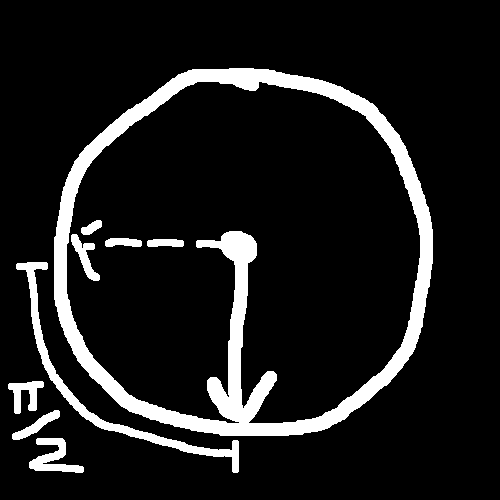
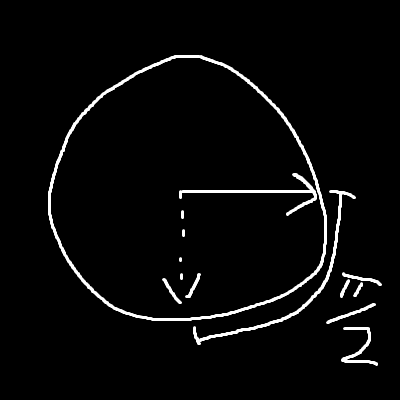
rework ball respawn velocity calculation

diff --git a/content/pong/scoring/ball_respawn.md b/content/pong/scoring/ball_respawn.md
@@ -134,16 +134,15 @@ export function angleTo(x: number, y: number, u: number, v: number): number;
 
 Now we can use all these useful vector math functions in our game.
 
-
 Let's break down some of the math here.
 
 We want the ball to fire in a random direction, but we don't want its trajectory to be too vertical, or it will take forever to get to one of the paddles, which is boring. We also want it to travel at the same speed regardless of its direction.
 
-Let's start with a vector with an _x_ component of 0 and a _y_ component of our desired speed. You can think of this as an arrow pointing straight downward. Now imagine that arrow as the hand of a clock. How can we describe the angle of the clock hand? As the hand rotates around it differs from its original orientation in an amount of units called _radians_. When that angle changes by 2 times pi, it ends up in the same position. So a rotation a quarter of the way around the clock would be pi divided by 2.
+Let's start with a vector with an _x_ component of our desired speed and a _y_ component of 0. You can think of this as an arrow pointing directly to the right. Now imagine that arrow as the hand of a clock. How can we describe the angle of the clock hand? As the hand rotates around it differs from its original orientation in an amount of units called _radians_. When that angle changes by 2 times pi, it ends up in the same position. So a rotation a quarter of the way around the clock would be pi divided by 2.
 
 ![pi over 2](/images/pi-over-2.png)
 
-You can see that if we rotate our downward vector by pi/2 radians, it will face towards the left paddle. Now, what we want is for the ball to be served at angles like this:
+You can see that if we rotate our direction vector by pi/2 radians, it will face straight down. Now, what we want is for the ball to be served at angles like this:
 
 ![serve area](/images/serve-area.png)
 
@@ -151,15 +150,13 @@ The non-shaded area represents the angles that we want the ball to be served at.
 
 Well, a lot of what we do in game math is guesstimation. "Close enough" can be a powerful phrase! We can always easily tweak the exact values later if we architect our game properly.
 
-![serve area angles](/images/serve-area-angles.png)
+![serve area angles](/images/serve-area-angle.png)
 
-If we draw it out, we know that a quarter-circle rotation is pi/2 radians. The start of our serve range seems to be roughly half that. So that would be pi/4 radians. Sounds reasonable as a starting angle to me. What about the ending angle?
+If we draw it out, we know that a quarter-circle rotation is pi/2 radians. The angle of our serve range seems to be roughly half that. So our rotation would be pi/4 radians. Sounds reasonable as a starting angle to me. How do we actually represent this range?
 
-![three quarters circle](/images/three-quarters.png)
+What if the rotation is _negative_? Well, our positive rotations have been going clockwise - so negative rotations go counter-clockwise! That means our possible serve angle is somewhere between -pi/4 and pi/4.
 
-When we draw it out, we see that it is 3 eighth-circle rotations. So we get 3 * pi/4.
-
-So now we need to pick a random rotation within this range. How should we do that? TypeScript and Lua don't have anything built-in for this. I usually write a helper for this, since it's so common to want a random real number in a certain range.
+So now we need to actually pick a random rotation within this range. How should we do that? TypeScript and Lua don't have anything built-in for this. I usually write a helper for this, since it's so common to want a random real number in a certain range.
 
 Let's create **game/helpers/math.ts**:
 
@@ -170,20 +167,39 @@ export class MathHelper {
     }
 }
 ```
-_love.math.random()_ returns a random real number between 0 and 1. So our _randomFloat_ function will return a random real number between _low_ and _high_.
 
-One last note about rotations. What if the rotation is _negative_? Well, our positive rotations have been going clockwise - so negative rotations go counter-clockwise!
+_love.math.random()_ returns a random real number between 0 and 1. So our _randomFloat_ function will return a random real number between _low_ and _high_.
 
 Now we can construct a formula for our random serve direction.
 
 ```ts
-const direction = MathHelper.randomFloat(math.pi / 4, math.pi * 3 / 4) *
-                    (love.math.random() > 0.5 ? 1 : -1);
+const direction = MathHelper.randomFloat(-math.pi / 4, math.pi / 4);
 ```
 
-What's that last bit on the second line? Remember, _love.math.random()_ returns a random number between 0 and 1. It has a 50% chance of being greater than 0.5. So that last expression means, there's a 50% chance of that value being equal to 1, and a 50% chance of it being equal to -1. If we multiply the rotation by negative 1, we are reversing its direction, so we have an equal chance of the ball being served to the left or the right. Spiffy!
+Now we need the ball to be able to be served left or right. To make our direction point left, we can make the _x_ component of the vector negative.
 
-Also, let's remember to destroy our timer entity at the end so it doesn't keep firing events. That would be bad!
+```ts
+const horizontal_speed = this.ball_speed * (love.math.random() > 0.5 ? 1 : -1);
+```
+
+Remember, _love.math.random()_ returns a random number between 0 and 1. It has a 50% chance of being greater than 0.5. So this expression means  there's a 50% chance of that value being equal to 1, and a 50% chance of it being equal to -1. If we multiply the direction by negative 1, we are reversing its direction, so we have an equal chance of the ball being served to the left or the right. Spiffy!
+
+Now we can put it all together to get our final velocity.
+
+```ts
+[
+    ball_spawn_message.x_velocity,
+    ball_spawn_message.y_velocity,
+] = vectorlight.rotate(direction, horizontal_speed, 0);
+```
+
+This is an example of a _destructuring assignment_. It lets us multiple variables at the same time, which is particularly useful for vector math. You can read more about it [on the official TypeScript documentation](https://www.typescriptlang.org/docs/handbook/variable-declarations.html).
+
+{{% notice notice %}}
+*Why aren't we just using an object to represent the vector?*
+
+Good question! My personal reason is that in Lua objects need to be garbage collected once they are done being used, so I like to avoid creating them when possible to avoid frame spikes, which is when a frame takes significantly longer to render than other frames. Regular numbers are not garbage collected so there is no danger of this happening.
+{{% /notice %}}
 
 Let's put it all together.
 
@@ -201,23 +217,20 @@ import * as vectorlight from "lua-lib/hump/vectorlight";
 export class BallSpawnTimerEngine extends Engine {
     private ball_size: number;
     private ball_speed: number;
-    private min_serve_angle: number;
-    private max_serve_angle: number;
+    private serve_angle: number;
     private middle: number;
     private height: number;
 
     public initialize(
         ball_size: number,
         ball_speed: number,
-        min_serve_angle: number,
-        max_serve_angle: number,
+        serve_angle: number,
         middle: number,
         height: number,
     ) {
         this.ball_size = ball_size;
         this.ball_speed = ball_speed;
-        this.min_serve_angle = min_serve_angle;
-        this.max_serve_angle = max_serve_angle;
+        this.serve_angle = serve_angle;
         this.middle = middle;
         this.height = height;
     }
@@ -232,14 +245,16 @@ export class BallSpawnTimerEngine extends Engine {
                 ball_spawn_message.y = love.math.random() * this.height;
 
                 const direction = MathHelper.randomFloat(
-                    this.min_serve_angle,
-                    this.max_serve_angle,
-                ) * (love.math.random() > 0.5 ? 1 : -1);
+                    -this.serve_angle,
+                    this.serve_angle,
+                );
+
+                const horizontal_speed = this.ball_speed * (love.math.random() > 0.5 ? 1 : -1);
 
                 [
                     ball_spawn_message.x_velocity,
                     ball_spawn_message.y_velocity,
-                ] = vectorlight.rotate(direction, 0, this.ball_speed);
+                ] = vectorlight.rotate(direction, horizontal_speed, 0);
 
                 ball_spawn_message.size = this.ball_size;
 
@@ -251,6 +266,8 @@ export class BallSpawnTimerEngine extends Engine {
 ```
 
 Every frame we subtract the remaining time by the delta-time value. Once it less than or equal to zero, we fire a BallSpawnMessage and destroy the timer entity.
+
+Notice that we remembered to destroy our timer entity at the end so it doesn't keep firing new ball spawn messages every frame. That would be bad!
 
 Don't forget to register our new Engines with the WorldBuilder.
 

diff --git a/content/pong/scoring/drawing_score.md b/content/pong/scoring/drawing_score.md
@@ -67,6 +67,7 @@ export class ScoreRenderer extends GeneralRenderer {
     }
 }
 ```
+
 Basically, we find each goal component, grab its score component, and draw the score component's value to the screen as text.
 
 If we create new LOVE Text object every frame, this is very performance heavy. So we want to create a Text on initialization and then set its contents instead.
